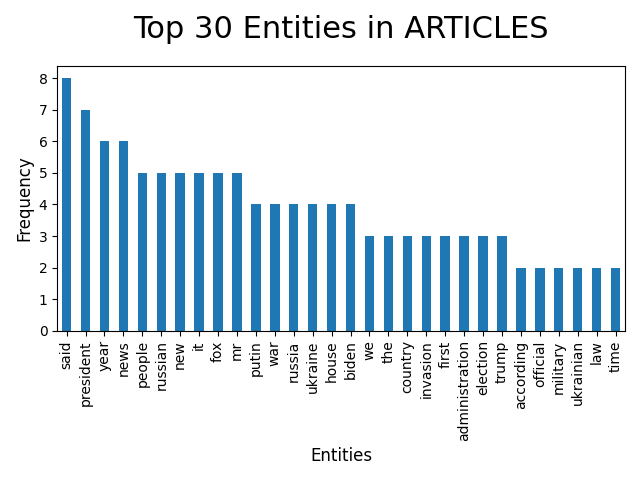
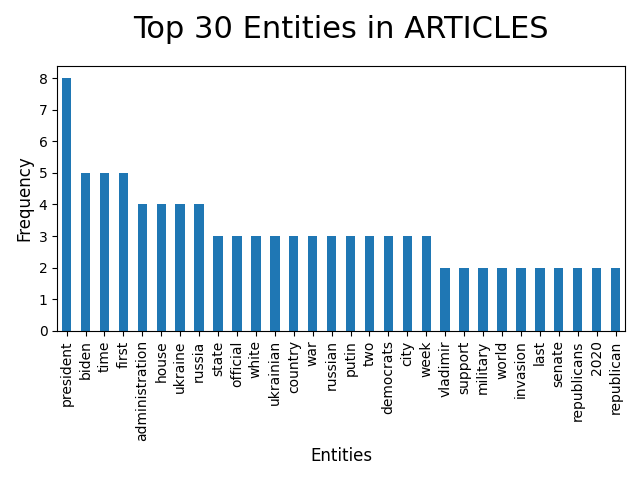
Corrected entities containing stopwords.

Changed region(s): [[0.0938, 0.7188, 0.9688, 0.9375], [0.125, 0.2188, 0.5625, 0.5], [0.6875, 0.4688, 0.8125, 0.5625]]

diff --git a/LDA/LDA.py b/LDA/LDA.py
@@ -14,7 +14,7 @@ import nltk
 nltk.download('wordnet')
 nltk.download('stopwords')
 
-# Step 1: Introduce pre-processing and lemmanization
+# Step 1: Introduce pre-processing and lemmatization
 def preprocess_text(text):
     words = text.split()
     words = [word for word in words if word.lower() not in stop_words]
@@ -44,7 +44,7 @@ def load_and_process_data(paths):
 def lda(all_text, name):
     print(f"Starting LDA for {name}")
 
-    vectorizer = CountVectorizer()
+    vectorizer = CountVectorizer(stop_words=list(stop_words))
     X = vectorizer.fit_transform(all_text)
 
     lda = LatentDirichletAllocation(n_components=10, random_state=0)
@@ -69,6 +69,9 @@ def lda(all_text, name):
     entity_freq = Counter(entity_list)
     entity_freq_df = pd.DataFrame(entity_freq.items(), columns=['entity', 'frequency'])
 
+    # Filter out stop words and meaningless entities from the result
+    entity_freq_df = entity_freq_df[~entity_freq_df['entity'].isin(stop_words)]
+
     plt.figure(figsize=(20, 15))
     entity_freq_df.nlargest(30, 'frequency').plot(kind='bar', x='entity', y='frequency', legend=False)
     plt.xlabel('Entities', fontsize=12)
@@ -82,7 +85,7 @@ def lda(all_text, name):
 
 # Step 4: Run the code
 stop_words = set(stopwords.words('english'))
-additional_stop_words = ['would', 'could', 'get', 'like', '-', 'one', 'also', 'think', 'much', 'know', 'said', 'going', 'abc', 'want', 'back', 'dont', 'even', 'see', 'well', 'really', 'many']
+additional_stop_words = ['would', 'could', 'get', 'like', '-', 'one', 'also', 'think', 'much', 'know', 'said', 'going', 'abc', 'want', 'back', 'dont', 'even', 'see', 'well', 'really', 'many', 'news', 'mr', 'new', 'fox', 'cnn', 'bbc', 'said', 'say', 'year', 'years', 'people']
 stop_words.update(additional_stop_words)
 
 all_text = load_and_process_data(['/home/kenich/MultiLayrtET2_Project/Data/2_proccessed_data_and_analysis/data/process_data/articles/articles_full.csv'])
